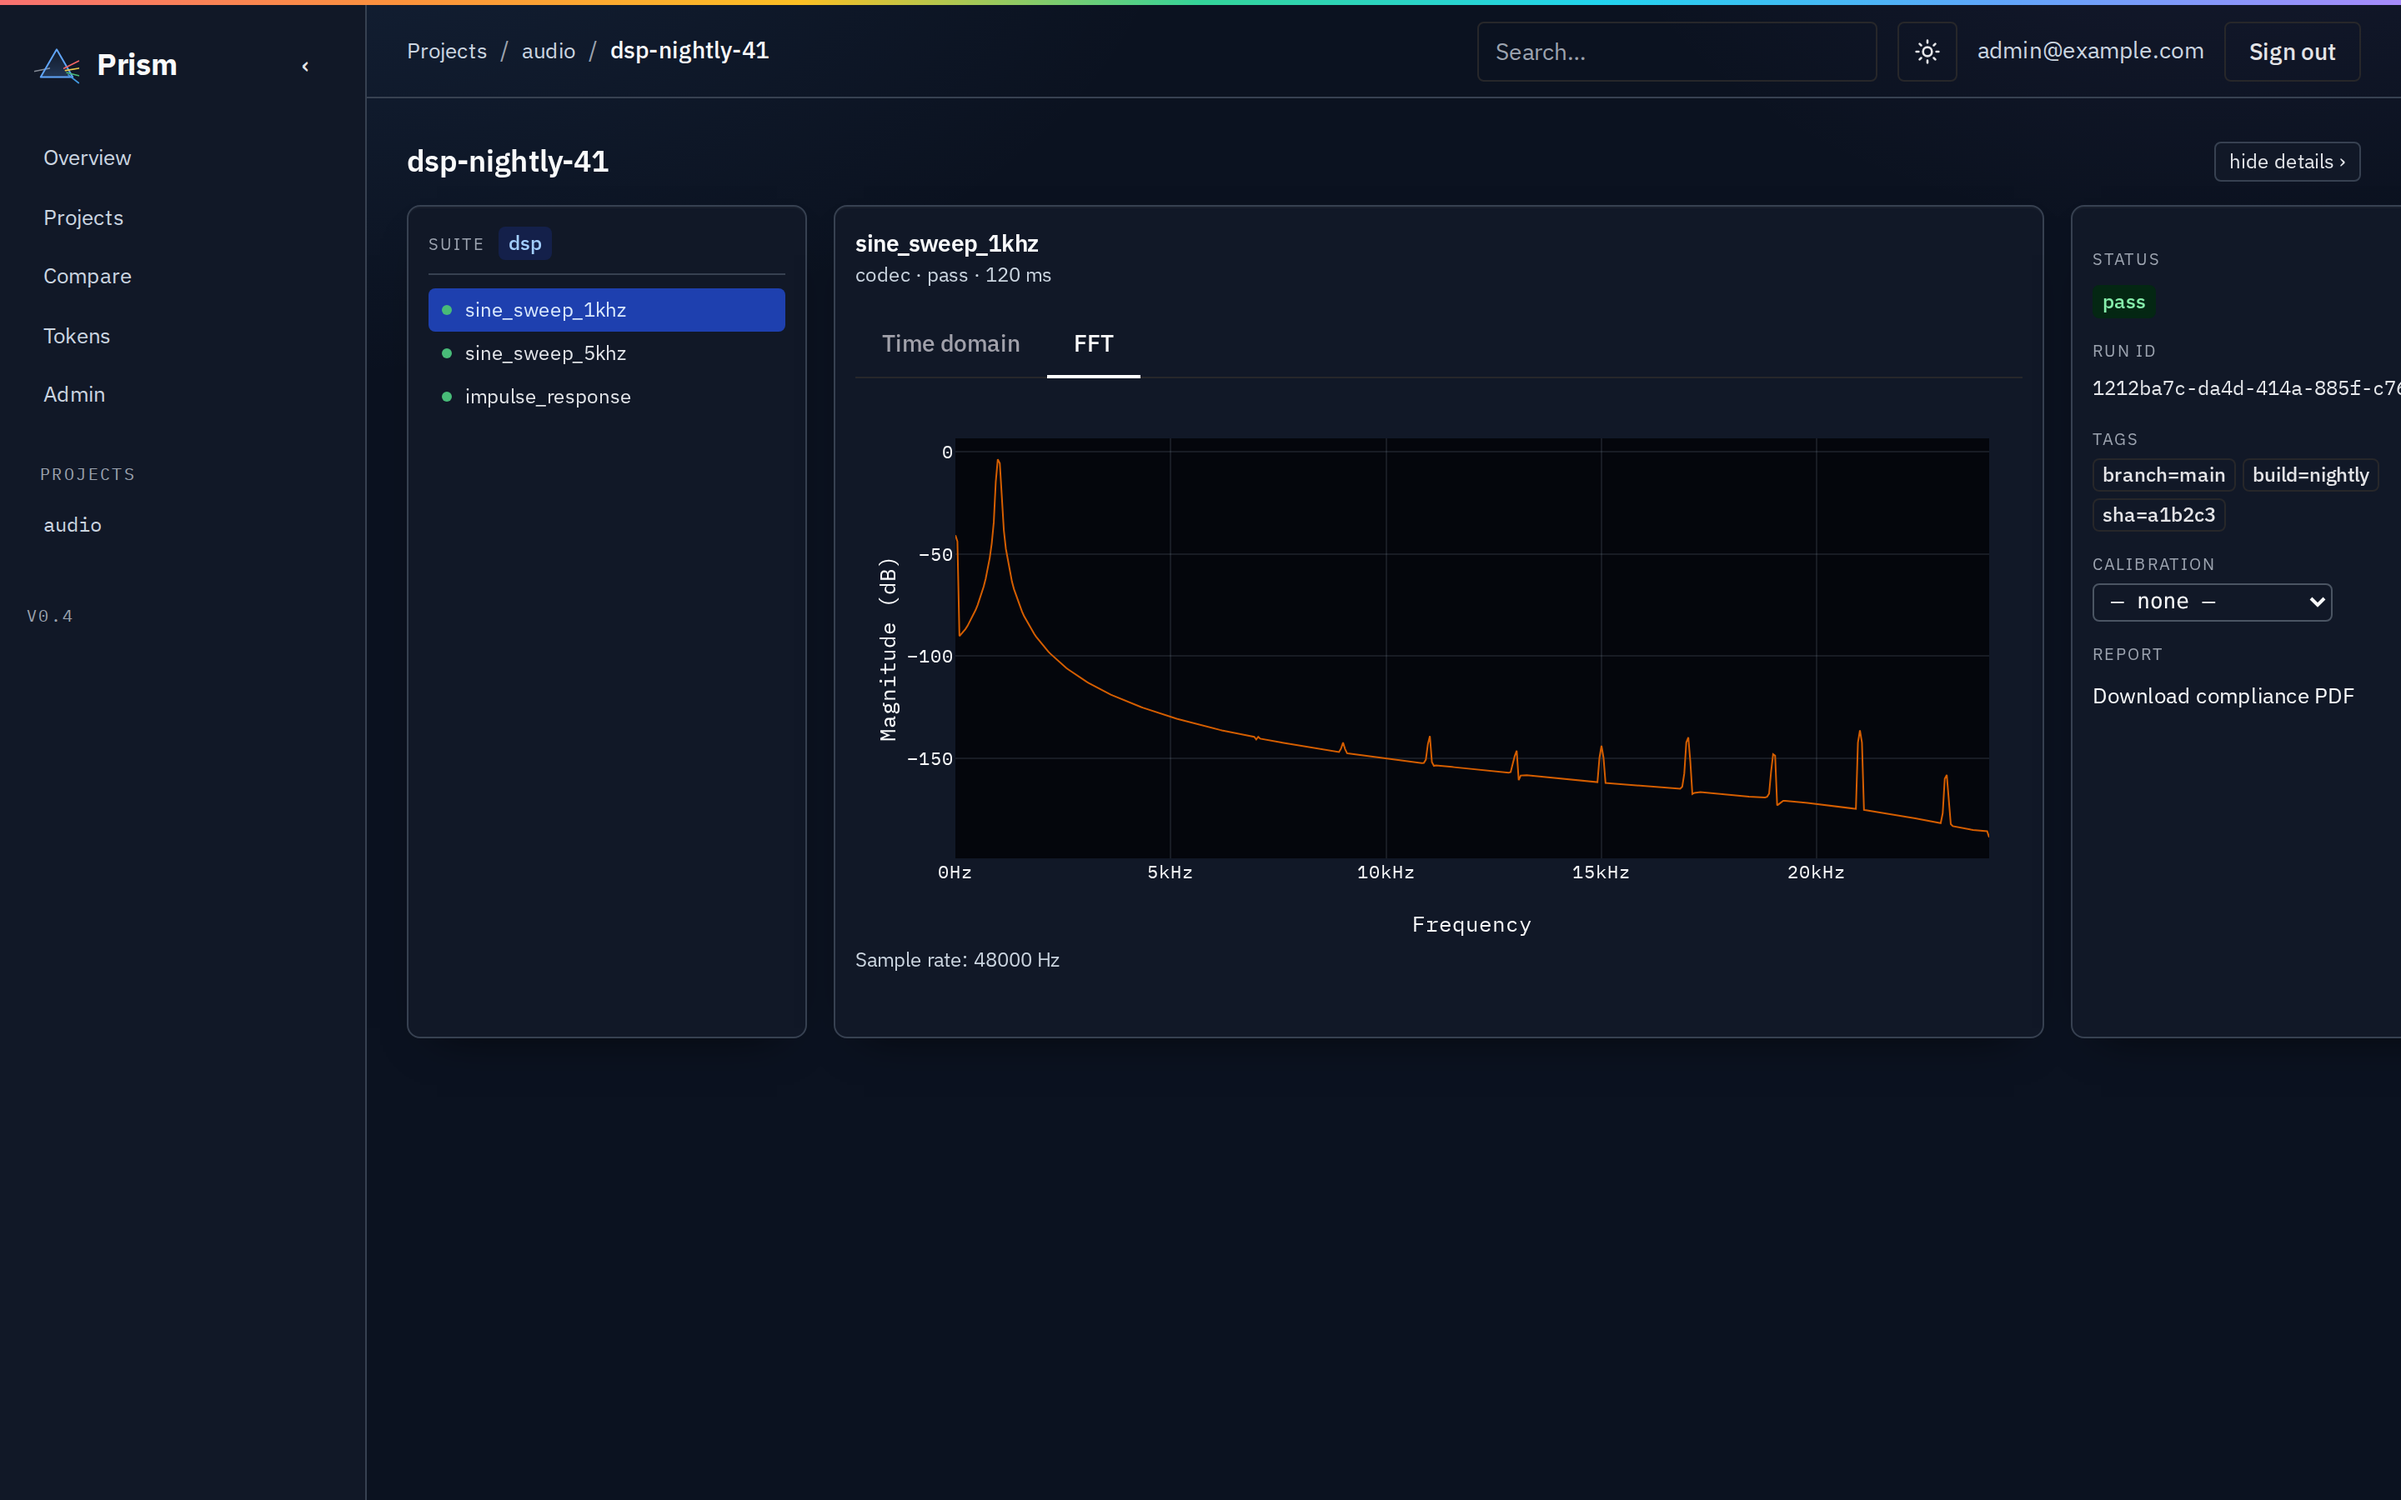
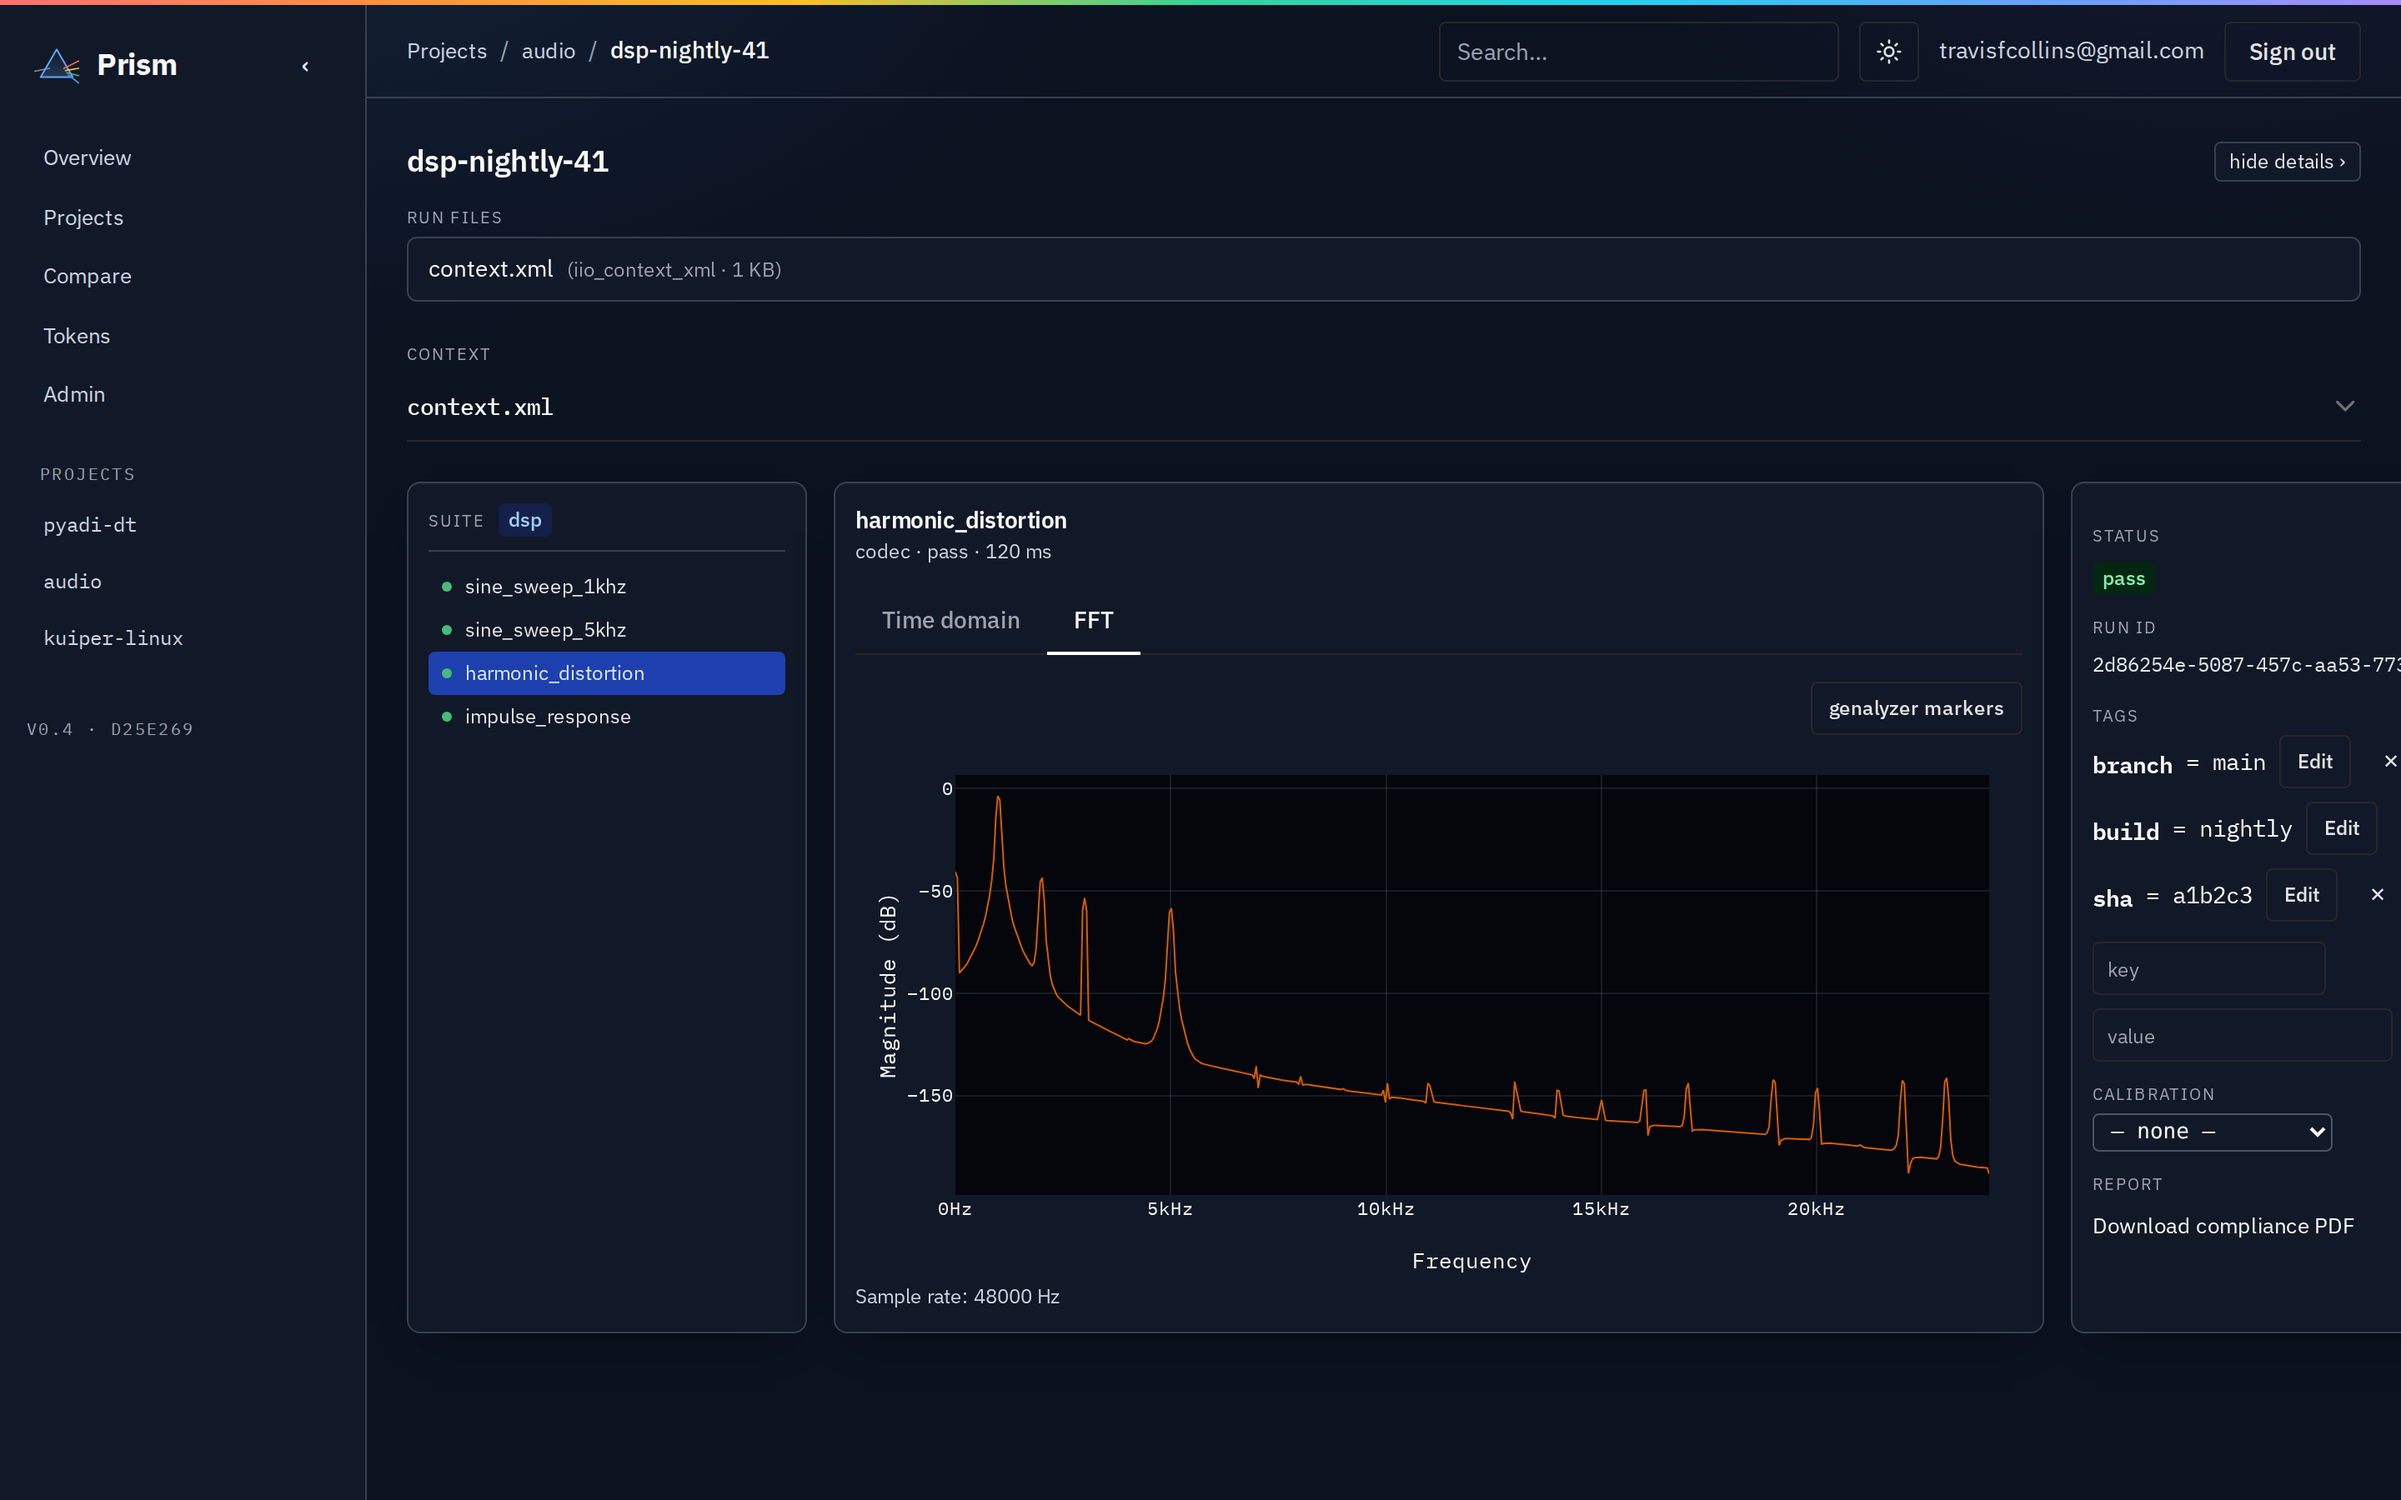
docs: use harmonic_distortion case for the tutorial run-detail/FFT shots
Switch the getting-started time-domain (run-detail.png) and FFT (fft.png)
screenshots from the plain sine sweep to the harmonic_distortion case, so
the FFT shows a richer spectrum with visible harmonics. Update shots.py to
select that case (fallback to the sine-sweep selectors) and refresh the
alt text.

Claude-Session: https://claude.ai/code/session_01HbDJmq5L5xa4HbGXDArShZ

diff --git a/docs/shots.py b/docs/shots.py
@@ -104,9 +104,11 @@ def main() -> int:
             shot(page, "export-actions")
 
         # --- run detail with waveform plot ---
+        # Prefer the harmonic_distortion case so the time/FFT shots show a richer
+        # spectrum (harmonics), falling back to the first sine-sweep-style case.
         page.goto(f"{BASE}/runs/{run_id}", wait_until="networkidle")
         page.wait_for_timeout(1200)
-        case = first_present(page, CASE_SELECTORS)
+        case = first_present(page, ("text=harmonic_distortion", *CASE_SELECTORS))
         if case is not None:
             case.click(timeout=2500)
         page.wait_for_timeout(2500)

diff --git a/docs/source/tutorials/getting-started.md b/docs/source/tutorials/getting-started.md
@@ -98,7 +98,7 @@ left; selecting one with an attached waveform renders an interactive plot with
 status, tags, calibration link and a downloadable compliance PDF.
 
 ```{image} ../_static/img/screenshots/run-detail.png
-:alt: A run-detail page showing a sine-sweep waveform in the time domain
+:alt: A run-detail page showing the harmonic_distortion test's waveform in the time domain
 :class: prism-shot
 :align: center
 ```
@@ -107,7 +107,7 @@ Switch to the **FFT** tab to see the same artifact transformed to the frequency
 domain — computed on the server with a Welch periodogram and cached:
 
 ```{image} ../_static/img/screenshots/fft.png
-:alt: The FFT tab showing the frequency-domain view of the same waveform
+:alt: The FFT tab showing the harmonic_distortion waveform's spectrum with its harmonics
 :class: prism-shot
 :align: center
 ```
